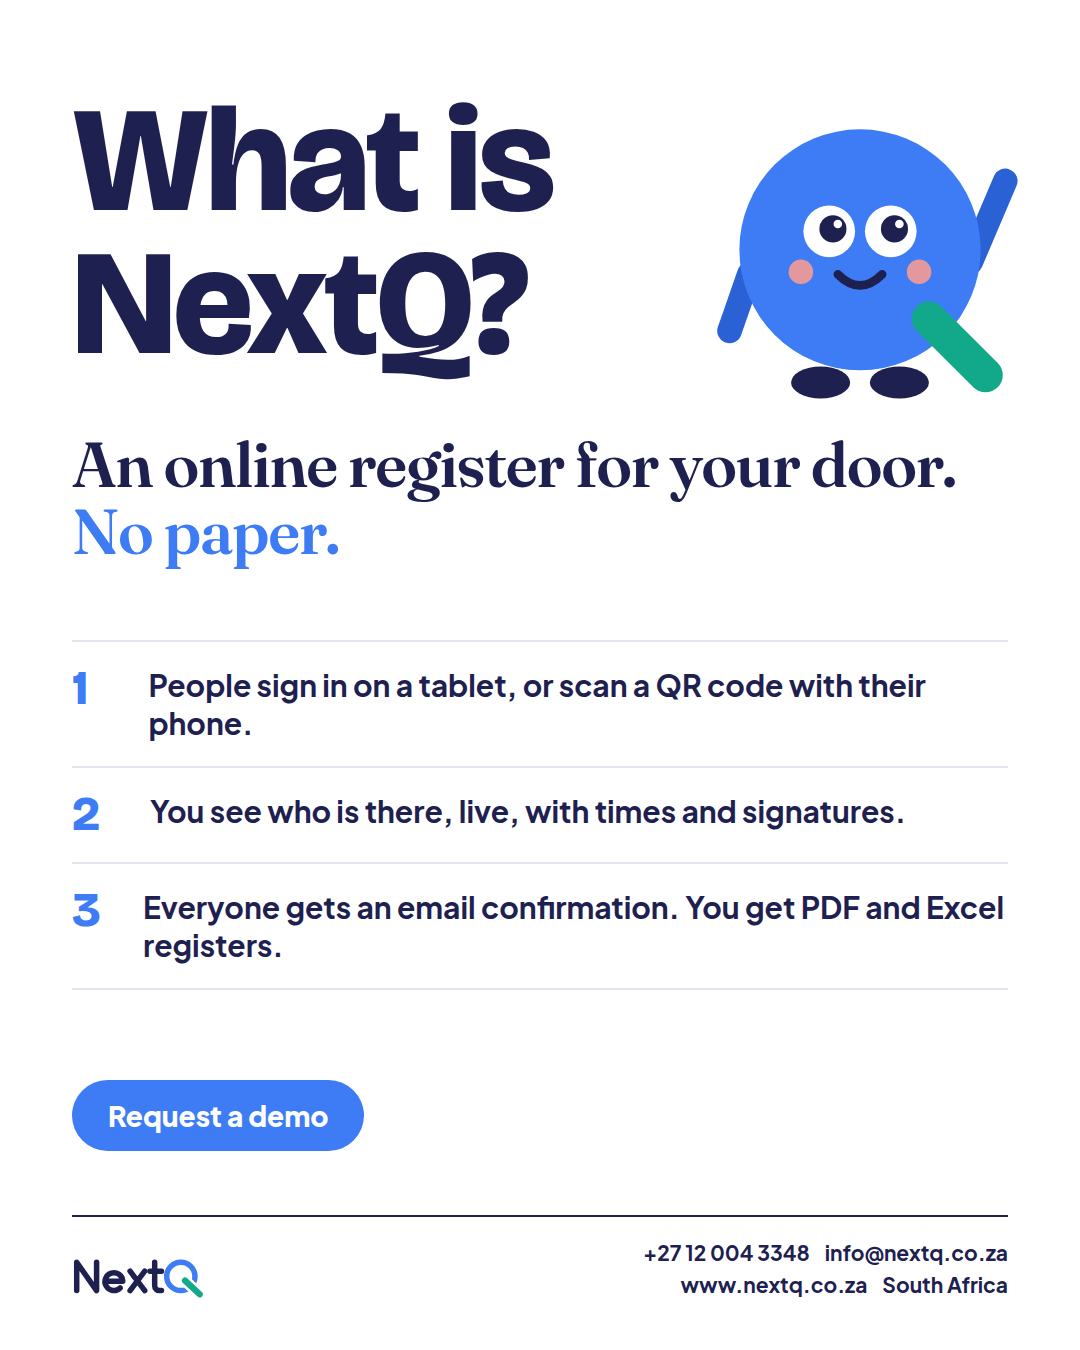
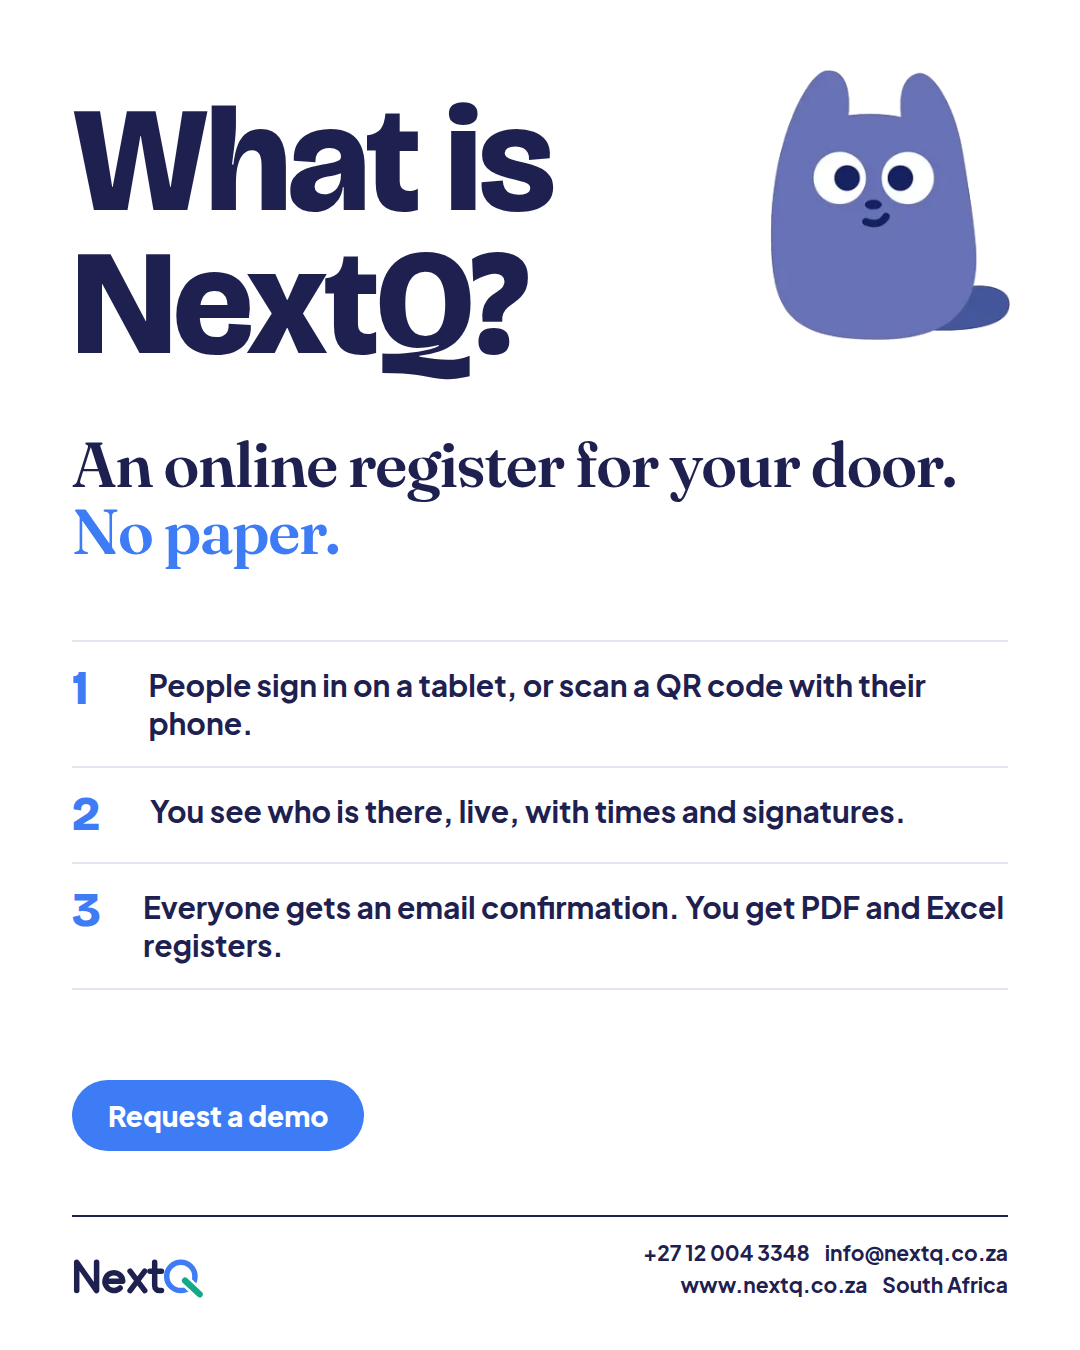
Posters: restore the previous mascot
Claude-Session: https://claude.ai/code/session_01H8nUNRrGeaWWu1NrRdz9Wv

Changed region(s): [[0.6417, 0.0311, 0.9472, 0.3111]]

diff --git a/marketing/posters.html b/marketing/posters.html
@@ -38,7 +38,7 @@
 <div class="p" id="d1" style="background:var(--yellow)">
   <p class="a" style="left:72px; top:80px; font-size:24px; font-weight:800; letter-spacing:.12em">NEW IN SOUTH AFRICA</p>
   <h1 class="a h" style="left:72px; top:130px; font-size:136px">Paperless<br>registers<br>are here.</h1>
-  <img class="a" src="mascot/q-cheer.svg" style="left:740px; top:250px; width:290px" alt="">
+  <img class="a" src="m-jump.png" style="left:740px; top:250px; width:290px" alt="">
   <p class="a sub" style="left:72px; top:560px; width:900px">NextQ is an online register. People sign in on a tablet or with their own phone, not on a paper sheet.</p>
   <div class="a chips" style="left:72px; top:720px; width:940px"><span>Events</span><span>Conferences</span><span>Visitors and reception</span><span>Staff transport</span><span>Training</span><span>Exam rooms</span></div>
   <ul class="a b" style="left:72px; top:860px; width:940px; display:grid; grid-template-columns:1fr 1fr; gap:12px 40px; font-size:24px; font-weight:700">
@@ -51,7 +51,7 @@
 <!-- 2. What is NextQ? -->
 <div class="p" id="d2" style="background:#fff">
   <h1 class="a h" style="left:72px; top:90px; font-size:150px">What is<br>NextQ?</h1>
-  <img class="a" src="mascot/q-hello.svg" style="left:700px; top:90px; width:320px" alt="">
+  <img class="a" src="m-front.png" style="left:770px; top:70px; width:240px" alt="">
   <p class="a s" style="left:72px; top:430px; width:930px; font-size:64px; font-weight:600">An online register for your door. <span style="color:var(--blue)">No paper.</span></p>
   <div class="a" style="left:72px; right:72px; top:640px; display:grid; gap:0; border-top:2px solid var(--line)">
     <div style="display:flex; gap:28px; padding:24px 0; border-bottom:2px solid var(--line)"><b class="h" style="font-size:48px; color:var(--blue); width:50px">1</b><p style="font-size:30px; font-weight:700">People sign in on a tablet, or scan a QR code with their phone.</p></div>
@@ -73,7 +73,7 @@
     <div style="position:absolute; left:-30px; right:-30px; top:200px; height:34px; background:var(--coral); border-radius:99px; transform:rotate(45deg)"></div>
     <div style="position:absolute; left:-30px; right:-30px; top:200px; height:34px; background:var(--coral); border-radius:99px; transform:rotate(-45deg)"></div>
   </div>
-  <img class="a" src="mascot/q-tablet.svg" style="left:560px; top:470px; width:420px" alt="">
+  <img class="a" src="m-front.png" style="left:600px; top:500px; width:360px" alt="">
   <p class="a sub" style="left:72px; top:950px; width:930px">NextQ online registers replace the paper sign in sheet. Signed, timed and saved, on a tablet or a phone.</p>
   <span class="a cta ink" style="left:72px; top:1090px">Request a demo</span>
   <div class="foot" style="border:0; padding-top:0; left:auto; width:600px"><span style="width:100%">+27 12 004 3348 &nbsp;&nbsp; info@nextq.co.za<br>www.nextq.co.za &nbsp;&nbsp; South Africa</span></div>
@@ -92,7 +92,7 @@
   <p class="a" style="left:72px; top:650px; font-size:28px; font-weight:800; letter-spacing:.12em; color:var(--yellow)">AFTER</p>
   <h2 class="a h" style="left:72px; top:695px; font-size:72px; color:#fff">NextQ online register</h2>
   <ul class="a b" style="left:72px; top:800px; font-size:28px; font-weight:700; color:#fff; line-height:1.6"><li>Signed and timed</li><li>Saved and searchable</li><li>Confirmation by email</li></ul>
-  <img class="a" src="mascot/q-tablet.svg" style="left:620px; top:760px; width:360px" alt="">
+  <img class="a" src="m-jump.png" style="left:700px; top:800px; width:270px" alt="">
   <span class="a cta" style="left:72px; top:1020px">Request a demo</span>
   <div class="foot light"><img src="logo-light.svg" alt="NextQ"><span>+27 12 004 3348 &nbsp;&nbsp; info@nextq.co.za<br>www.nextq.co.za &nbsp;&nbsp; South Africa</span></div>
 </div>
@@ -100,7 +100,7 @@
 <!-- 5. Eight reasons -->
 <div class="p" id="d5" style="background:var(--cream)">
   <h1 class="a h" style="left:72px; top:90px; font-size:118px">8 reasons<br>to go <span style="color:var(--blue)">paperless.</span></h1>
-  <img class="a" src="mascot/q-front.svg" style="left:790px; top:930px; width:220px" alt="">
+  <img class="a" src="m-front.png" style="left:790px; top:930px; width:220px" alt="">
   <p class="a" style="left:72px; top:350px; font-size:26px; font-weight:700; color:var(--grey)">NextQ online registers, for any door people walk through.</p>
   <div class="a" style="left:72px; right:72px; top:430px; display:grid; grid-template-columns:1fr 1fr; column-gap:44px; border-top:3px solid var(--ink)">
     <p style="border-bottom:1.5px solid var(--ink); padding:20px 0; font-size:25px; font-weight:700">Nothing lost, wet or torn</p>
@@ -128,7 +128,7 @@
   <i class="a" style="left:0; right:220px; top:666px; height:26px; border-radius:99px; background:var(--yellow)"></i>
   <i class="a" style="left:170px; right:0; top:722px; height:26px; border-radius:99px; background:var(--mint)"></i>
   <i class="a" style="left:40px; right:280px; top:778px; height:26px; border-radius:99px; background:#ffd6c9"></i>
-  <img class="a" src="mascot/q-front.svg" style="left:575px; top:470px; width:180px" alt="">
+  <img class="a" src="m-front.png" style="left:575px; top:470px; width:180px" alt="">
   <div class="tab" style="left:310px; top:560px; width:460px; height:330px">
     <div class="scr" style="padding:20px 24px"><small>SIGN IN</small><b style="margin-bottom:12px">Welcome. Please sign in.</b><label>Name</label><div class="in">Your name</div><label>Company</label><div class="in">Company or school</div><div class="go">Sign in</div></div>
   </div>
@@ -146,7 +146,7 @@
 <div class="p" id="d7" style="background:var(--ink); color:#fff">
   <h1 class="a h" style="left:72px; top:90px; font-size:120px">One register<br>for every <span style="color:var(--yellow)">door.</span></h1>
   <p class="a sub" style="left:72px; top:370px; width:640px; color:#c9cbe8">NextQ online registers replace paper sign in sheets wherever people arrive.</p>
-  <img class="a" src="mascot/q-cheer.svg" style="left:740px; top:250px; width:290px" alt="">
+  <img class="a" src="m-jump.png" style="left:800px; top:300px; width:215px" alt="">
   <div class="a" style="left:72px; right:72px; top:560px; display:grid; grid-template-columns:repeat(3,1fr); gap:16px; color:var(--ink)">
     <p style="background:var(--yellow); border-radius:24px; padding:30px 26px; font-size:30px; font-weight:800; height:150px">Events</p>
     <p style="background:#fff; border-radius:24px; padding:30px 26px; font-size:30px; font-weight:800; height:150px">Conferences</p>
@@ -162,8 +162,8 @@
 <!-- 8. A chat -->
 <div class="p" id="d8" style="background:#ece6dc">
   <div class="a" style="left:0; right:0; top:0; height:130px; background:var(--ink); color:#fff; display:flex; align-items:center; gap:20px; padding:0 60px">
-    <img src="mascot/q-front.svg" style="width:78px; height:78px; border-radius:50%; background:var(--cream); object-fit:cover; object-position:50% 20%" alt="">
-    <div><b style="font-size:28px">Q from NextQ</b><p style="font-size:18px; color:#c3c6e6">online</p></div>
+    <img src="m-front.png" style="width:78px; height:78px; border-radius:50%; background:var(--cream); object-fit:cover; object-position:50% 20%" alt="">
+    <div><b style="font-size:28px">NextQ</b><p style="font-size:18px; color:#c3c6e6">online</p></div>
   </div>
   <div class="a" style="left:60px; right:60px; top:175px; display:flex; flex-direction:column; gap:20px; font-size:28px; font-weight:600; line-height:1.4">
     <p style="align-self:flex-end; background:#d6f5c9; padding:20px 26px; border-radius:24px 24px 6px 24px">Hi. What does NextQ sell?</p>
@@ -181,7 +181,7 @@
 <!-- 9. Notebook letter -->
 <div class="p" id="d9" style="background-color:#fffdf6; background-image:repeating-linear-gradient(#fffdf6 0 58px, #b9d3ee 58px 60px); background-position:0 20px">
   <i class="a" style="left:150px; top:0; bottom:0; width:3px; background:#ef8a8a"></i>
-  <img class="a" src="mascot/q-hello.svg" style="left:14px; top:80px; width:150px" alt="">
+  <img class="a" src="m-front.png" style="left:20px; top:90px; width:140px" alt="">
   <h1 class="a s" style="left:200px; right:60px; top:110px; font-size:88px; font-style:italic; font-weight:500">Dear paper register,<br>it's over.</h1>
   <p class="a" style="left:200px; top:420px; font-size:28px; font-weight:700; color:var(--bdeep)">We moved to an online register. Here is why:</p>
   <ul class="a b" style="left:200px; top:498px; font-size:30px; font-weight:600; line-height:60px">
@@ -199,12 +199,12 @@
 
 <!-- 10. Meet Q -->
 <div class="p" id="d10" style="background:var(--yellow); color:var(--ink)">
-  <h1 class="a h" style="left:72px; top:90px; font-size:150px">Meet Q.</h1>
-  <p class="a s" style="left:72px; top:260px; width:900px; font-size:58px; font-weight:600">Q keeps your register online, so nobody signs on paper again.</p>
+  <h1 class="a h" style="left:72px; top:90px; font-size:150px">Say hello.</h1>
+  <p class="a s" style="left:72px; top:260px; width:900px; font-size:58px; font-weight:600">To registers without paper. NextQ keeps your register online.</p>
   <ul class="a b" style="left:72px; top:470px; width:930px; display:grid; grid-template-columns:1fr 1fr; gap:14px 40px; font-size:25px; font-weight:700">
     <li>Tablet or QR code sign in</li><li>Works offline</li><li>Times and signatures kept</li><li>Live view of who is there</li><li>Email confirmations</li><li>POPIA aware</li>
   </ul>
-  <img class="a" src="mascot/q-hello.svg" style="left:430px; top:700px; width:620px" alt="">
+  <img class="a" src="m-jump.png" style="left:560px; top:700px; width:430px" alt="">
   <span class="a cta ink" style="left:72px; top:760px">Request a demo</span>
   <p class="a" style="left:72px; top:870px; font-size:24px; font-weight:700; width:380px">NextQ, paperless online registers.</p>
   <div class="a" style="left:0; right:0; bottom:0; background:var(--ink); padding:24px 72px; display:flex; justify-content:space-between; align-items:center; font-size:21px; font-weight:700; line-height:1.5"><img src="logo-light.svg" style="height:44px" alt="NextQ"><span style="text-align:right">+27 12 004 3348 &nbsp;&nbsp; info@nextq.co.za<br>www.nextq.co.za &nbsp;&nbsp; South Africa</span></div>
